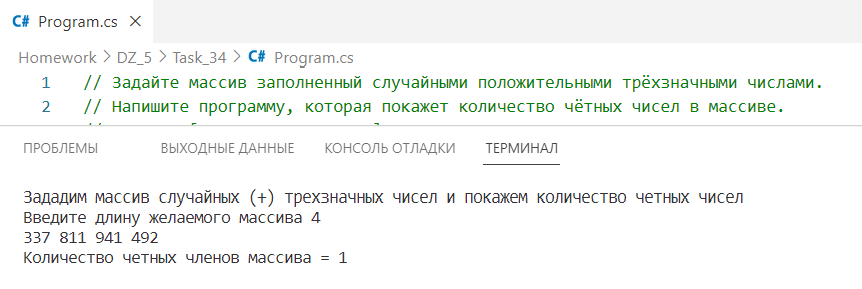
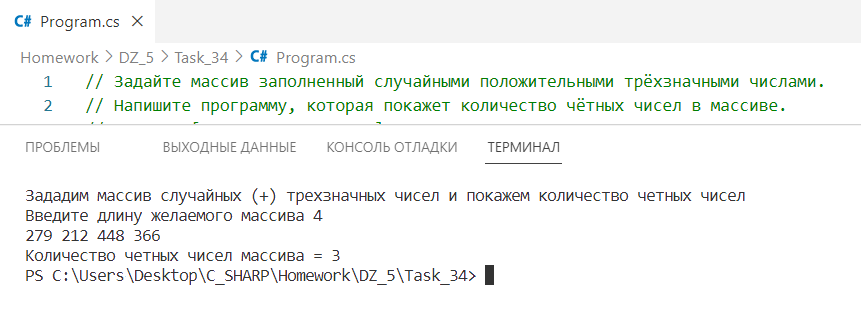
C#

Changed region(s): [[0.0, 0.1557, 1.0, 0.5294], [0.0302, 0.5606, 0.8757, 0.9343], [0.0, 0.0311, 0.1812, 0.1246]]

diff --git a/Homework/DZ_5/Task_34/Program.cs b/Homework/DZ_5/Task_34/Program.cs
@@ -31,7 +31,7 @@ void NumberOfEven(int[] array)
         if (array[i] % 2 == 0)
             count++;
     }
-    Console.Write($"Количество четных членов массива = {count}");
+    Console.Write($"Количество четных чисел массива = {count}");
 }
 
 Console.Write("Введите длину желаемого массива ");
